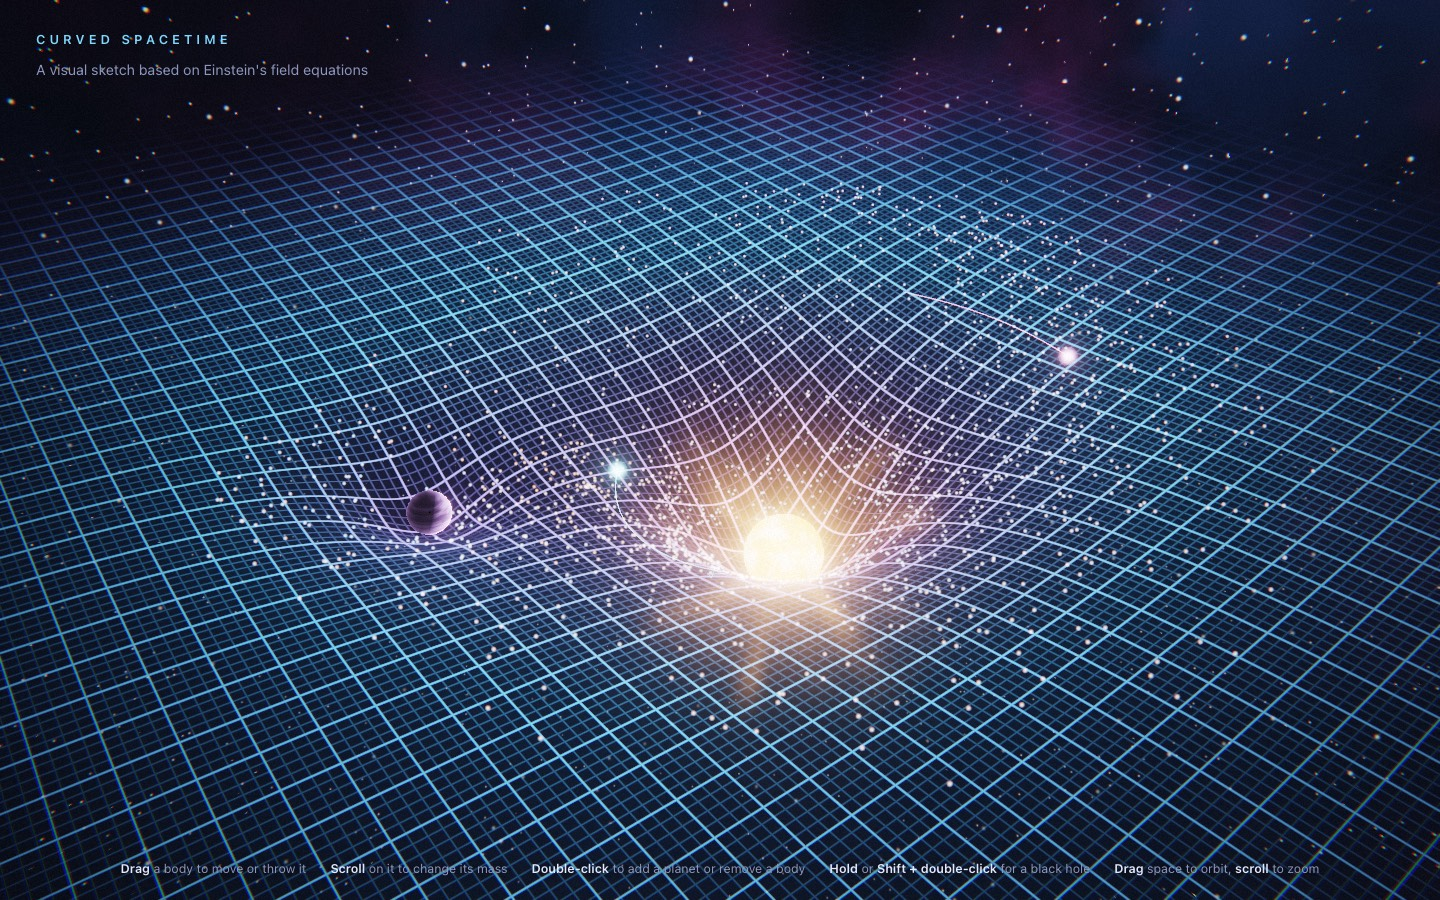
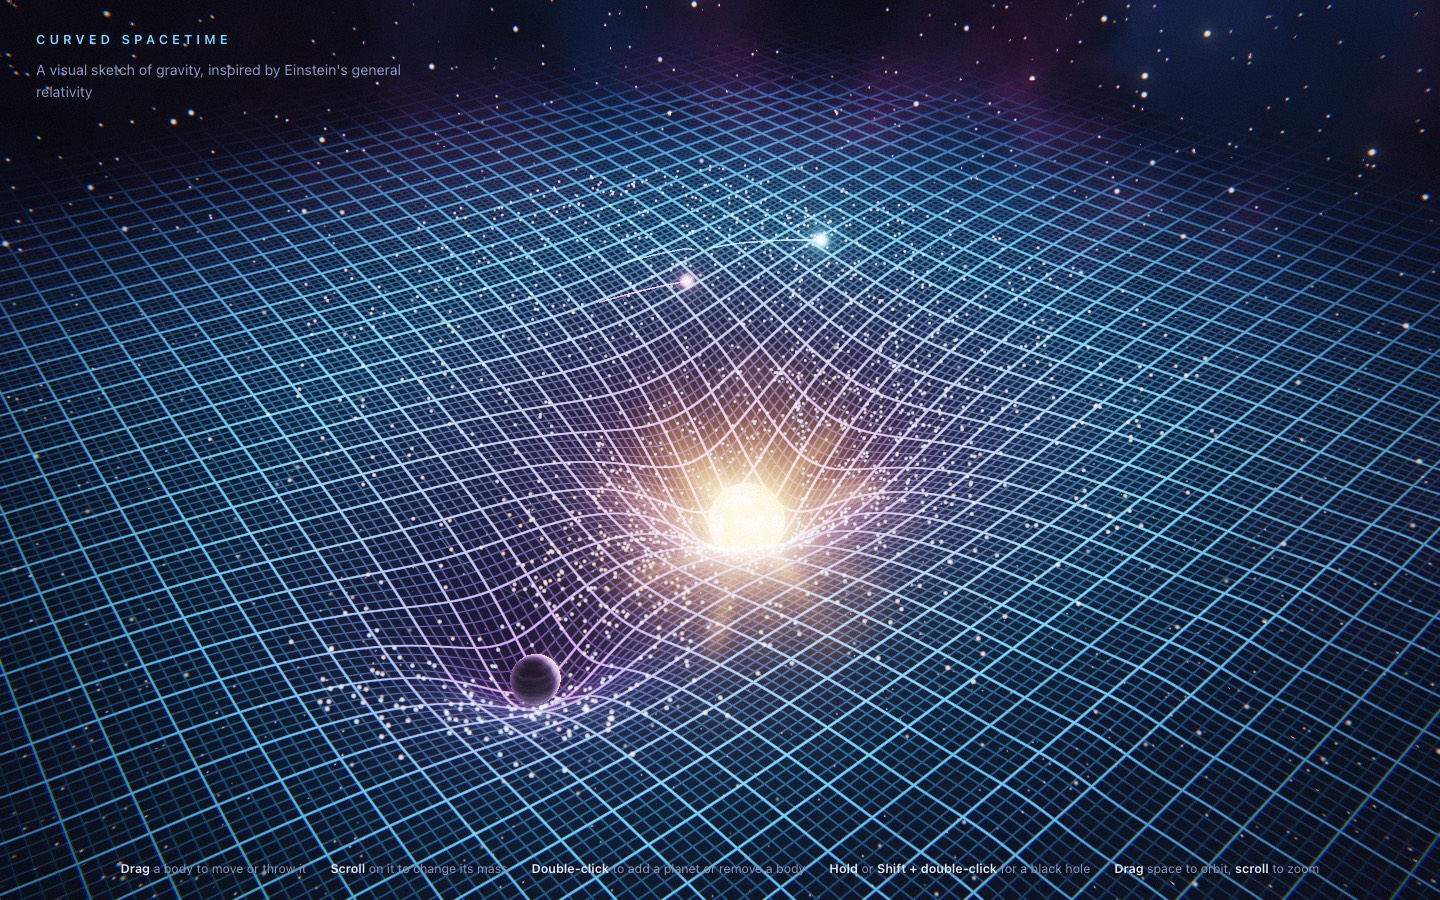
Curved Spacetime: black hole shadow, one well scale, ISCO disk, fixed-rate ripples, accuracy notes

diff --git a/einstein-field-equation/script.js b/einstein-field-equation/script.js
@@ -17,7 +17,13 @@ const SHEET_BAND = 8;
 const WAVE_N = 192;
 const WAVE_CELL = (2 * HALF) / WAVE_N;
 const WAVE_C2 = 0.22;
-const WAVE_DAMP = 0.986;
+// Steps per second. Ripples travel sqrt(WAVE_C2) cells per step, about 28 world units/s,
+// faster than stars and planets orbit. Anything orbiting close to a heavy black hole, and
+// thrown bodies, can still outrun them.
+const WAVE_RATE = 240;
+const WAVE_DAMP = 0.993;
+// Faster ripples spread over a wider ring, so disturbances push harder to stay as visible.
+const KICK_GAIN = 1.6;
 const SHADE_REF = DEPTH * 1.9;
 const DUST = 1800;
 const DUST_SPREAD = [2.2, 12];
@@ -35,14 +41,18 @@ const KINDS = {
 	hole: { soften: 1.25, maxMass: 10, radius: (m) => 0.3 + 0.22 * Math.sqrt(m) },
 };
 
-// The sheet is the softened Newtonian potential, so everything that orbits is
-// pulled by exactly the slope that is drawn.
+// The sheet is the softened Newtonian potential -G m / sqrt(r^2 + s^2) drawn at one scale for
+// every kind, so everything that orbits is pulled by exactly the slope that is drawn, and a
+// compact body (smaller s) digs a deeper well than a star of the same mass. A star's well is
+// DEPTH * mass deep.
+const WELL_SCALE = DEPTH * KINDS.star.soften;
+
 const wellHeight = (bodies, x, z) => {
 	let h = 0;
 	for (const b of bodies) {
 		const dx = x - b.x;
 		const dz = z - b.z;
-		h -= (DEPTH * b.mass) / Math.sqrt(1 + (dx * dx + dz * dz) / (b.soften * b.soften));
+		h -= (WELL_SCALE * b.mass) / Math.sqrt(dx * dx + dz * dz + b.soften * b.soften);
 	}
 	return h;
 };
@@ -117,15 +127,19 @@ const stepFade = (fade, leaving, dt) =>
 
 const clampMass = (kind, mass) => Math.min(KINDS[kind].maxMass, Math.max(MASS_MIN, mass));
 
+// Two black holes radiate about 5% of their mass away as gravitational waves when they merge.
+const HOLE_MERGER_LOSS = 0.05;
+
 const mergeBodies = (a, b) => {
-	const mass = a.mass + b.mass;
+	const sum = a.mass + b.mass;
+	const mass = a.kind === 'hole' && b.kind === 'hole' ? sum * (1 - HOLE_MERGER_LOSS) : sum;
 	const heavy = a.mass >= b.mass ? a : b;
 	const kind = a.kind === 'hole' || b.kind === 'hole' ? 'hole' : a.kind === 'star' || b.kind === 'star' ? 'star' : 'planet';
 	return {
-		x: (a.x * a.mass + b.x * b.mass) / mass,
-		z: (a.z * a.mass + b.z * b.mass) / mass,
-		vx: (a.vx * a.mass + b.vx * b.mass) / mass,
-		vz: (a.vz * a.mass + b.vz * b.mass) / mass,
+		x: (a.x * a.mass + b.x * b.mass) / sum,
+		z: (a.z * a.mass + b.z * b.mass) / sum,
+		vx: (a.vx * a.mass + b.vx * b.mass) / sum,
+		vz: (a.vz * a.mass + b.vz * b.mass) / sum,
 		mass,
 		kind,
 		hue: heavy.hue,
@@ -309,6 +323,7 @@ const GLSL_HEAD = `#version 300 es
 precision highp float;
 precision highp int;
 const float DEPTH = ${DEPTH.toFixed(4)};
+const float WELL_SCALE = ${WELL_SCALE.toFixed(4)};
 const float HALF = ${HALF.toFixed(4)};
 const float FADE_START = ${FADE_START.toFixed(4)};
 const float FADE_END = ${FADE_END.toFixed(4)};
@@ -424,7 +439,7 @@ float well(vec2 p) {
 		if (i >= uCount) break;
 		vec4 b = uBodies[i];
 		vec2 d = p - b.xy;
-		h -= DEPTH * b.z * inversesqrt(1.0 + dot(d, d) / (b.w * b.w));
+		h -= WELL_SCALE * b.z * inversesqrt(dot(d, d) + b.w * b.w);
 	}
 	return h;
 }
@@ -573,15 +588,21 @@ void main() {
 		float ring = exp(-pow((q - 1.45) * 5.0, 2.0));
 		col = (vec3(1.0, 0.72, 0.42) * ring * 3.5 + vec3(0.55, 0.3, 1.0) * exp(-max(q - 1.0, 0.0) * 1.2) * 0.25) * fadeOut;
 	} else {
-		float inner = 1.6;
-		if (q < inner * 0.85 || q > uRatio) discard;
+		// Radii are in units of the drawn horizon. The disk stops at the innermost stable
+		// circular orbit, 3 horizon radii. Brightness scales as g^3, where g is the Doppler and
+		// gravitational shift of a circular orbit: sqrt(1 - 1.5 / q) / (1 - beta cos), with orbital
+		// speed beta = sqrt(0.5 / (q - 1)). The approaching side shines, the receding side fades.
+		float inner = 3.0;
+		if (q < inner || q > uRatio) discard;
 		float ang = atan(vCorner.y, vCorner.x);
 		float spin = ang - uTime * 3.0 / pow(q, 1.5);
 		vec2 pr = vec2(cos(spin), sin(spin)) * q;
 		float n = fbm(vec3(pr * 1.4, q * 2.5));
-		float profile = smoothstep(inner * 0.85, inner * 1.25, q) * exp(-(q - inner) * 0.42) * fadeOut;
+		float profile = smoothstep(inner, inner * 1.12, q) * exp(-(q - inner) * 0.42) * fadeOut;
 		vec3 tangent = vec3(-sin(ang), 0.0, cos(ang));
-		float doppler = 1.0 + 0.75 * dot(tangent, normalize(uEye - vPos));
+		float beta = sqrt(0.5 / (q - 1.0));
+		float g = sqrt(max(1.0 - 1.5 / q, 0.0)) / (1.0 - beta * dot(tangent, normalize(uEye - vPos)));
+		float doppler = pow(g, 3.0) / pow(1.0 - 1.5 / inner, 1.5);
 		vec3 hot = mix(vec3(1.0, 0.45, 0.15), vec3(1.0, 0.92, 0.82), exp(-(q - inner) * 0.55));
 		col = hot * profile * (0.25 + 1.8 * n * n) * doppler * 1.4;
 	}
@@ -676,7 +697,9 @@ void main() {
 }`;
 
 // Black holes bend the finished frame: a pixel at distance r from the hole shows
-// what sits at r - E^2 / r, the point-lens equation, which draws the Einstein ring.
+// what sits at r - E^2 / r, the point-lens equation. Within the shadow radius, sqrt(27) / 2 = 2.6
+// horizon radii, the frame is black. The mask cannot tell what is in front of the hole, so it
+// hides that too.
 const COMPOSITE_FS = `${GLSL_HEAD}${GLSL_NOISE}
 in vec2 vUv;
 uniform sampler2D uScene;
@@ -694,17 +717,19 @@ vec3 aces(vec3 x) {
 
 void main() {
 	vec2 px = vUv * uRes;
+	float shadow = 1.0;
 	for (int i = 0; i < 4; i++) {
 		if (i >= uLensCount) break;
 		vec2 d = px - uLens[i].xy;
 		float r = max(length(d), 1e-3);
+		shadow *= smoothstep(uLens[i].w * 2.45, uLens[i].w * 2.6, r);
 		px = uLens[i].xy + d / r * (r - uLens[i].z / r);
 	}
 	vec2 uv = clamp(px / uRes, 0.0, 1.0);
 	vec2 cd = vUv - 0.5;
 	vec2 ca = cd * dot(cd, cd) * 0.006;
 	vec3 col = vec3(texture(uScene, uv + ca).r, texture(uScene, uv).g, texture(uScene, uv - ca).b);
-	col += texture(uBloom, uv).rgb * uBloomGain;
+	col = (col + texture(uBloom, uv).rgb * uBloomGain) * shadow;
 	col = aces(col * 1.05);
 	float vig = 1.0 - smoothstep(0.35, 1.15, length(cd * vec2(uRes.x / uRes.y, 1.0)) * 0.95);
 	col *= mix(0.5, 1.0, vig);
@@ -946,7 +971,7 @@ const boot = () => {
 				if (i < 1 || j < 1 || i >= WAVE_N - 1 || j >= WAVE_N - 1) continue;
 				const wx = -HALF + (i + 0.5) * WAVE_CELL - x;
 				const wz = -HALF + (j + 0.5) * WAVE_CELL - z;
-				waveV[j * WAVE_N + i] += amount * Math.exp(-(wx * wx + wz * wz) / 0.35);
+				waveV[j * WAVE_N + i] += amount * KICK_GAIN * Math.exp(-(wx * wx + wz * wz) / 0.35);
 			}
 		}
 	};
@@ -1007,6 +1032,7 @@ const boot = () => {
 	};
 
 	let drag = null;
+	let waveClock = 0;
 
 	const simulate = (dt) => {
 		for (const b of bodies) {
@@ -1039,7 +1065,7 @@ const boot = () => {
 			b.vx += (vx - b.vx) * 0.5;
 			b.vz += (vz - b.vz) * 0.5;
 			const speed = Math.hypot(vx, vz);
-			if (speed > 1) kick(b.x, b.z, -0.0035 * Math.min(speed, 40) * b.mass);
+			if (speed > 1) kick(b.x, b.z, -0.21 * dt * Math.min(speed, 40) * b.mass);
 		}
 
 		for (let i = 0; i < bodies.length; i++) {
@@ -1062,10 +1088,10 @@ const boot = () => {
 
 		for (const b of bodies) {
 			const a = Math.hypot(b.ax, b.az);
-			if (a > 0.5) kick(b.x, b.z, -0.00028 * b.mass * Math.min(a, 60));
+			if (a > 0.5) kick(b.x, b.z, -0.0168 * dt * b.mass * Math.min(a, 60));
 		}
-		stepWaves(waveH, waveV, WAVE_N);
-		stepWaves(waveH, waveV, WAVE_N);
+		waveClock += dt;
+		for (; waveClock >= 1 / WAVE_RATE; waveClock -= 1 / WAVE_RATE) stepWaves(waveH, waveV, WAVE_N);
 
 		const host = heaviest();
 		const lost = (x, z, leash) => swallowed(x, z) || (x - host.x) ** 2 + (z - host.z) ** 2 > leash * leash;
@@ -1185,7 +1211,7 @@ const boot = () => {
 			gl.uniform1f(progs.glow.u.uGain, gain);
 			gl.drawArrays(gl.TRIANGLE_STRIP, 0, 4);
 		};
-		for (const b of bodies) if (b.kind === 'hole') glow(b, 3, 7, true, 1);
+		for (const b of bodies) if (b.kind === 'hole') glow(b, 3, 10, true, 1);
 
 		// The sheet is translucent, so it must not hide its own far side: no depth writes,
 		// and bands are drawn far to near so nearer slopes blend over farther ones.
@@ -1312,7 +1338,9 @@ const boot = () => {
 			const sx = (c[0] / c[3] * 0.5 + 0.5) * w;
 			const sy = (c[1] / c[3] * 0.5 + 0.5) * h;
 			const rPx = (R * view.pixels) / c[3];
-			const einstein = rPx * 2.4;
+			// With E = 2.04 R the lensed image of the black sphere ends at 2.6 R, the shadow edge,
+			// and the photon ring glow lands just outside it, at 2.89 R.
+			const einstein = rPx * 2.04;
 			lens.set([sx, sy, einstein * einstein, rPx], lensCount++ * 4);
 		}
 

diff --git a/einstein-field-equation/index.html b/einstein-field-equation/index.html
@@ -14,7 +14,7 @@
 
 		<header class="caption">
 			<h1>Curved spacetime</h1>
-			<p class="lede">A visual sketch based on Einstein's field equations</p>
+			<p class="lede">A visual sketch of gravity, inspired by Einstein's general relativity</p>
 			<p id="fallback" class="fallback" hidden>This needs a browser with WebGL 2.</p>
 		</header>
 

diff --git a/einstein-field-equation/README.md b/einstein-field-equation/README.md
@@ -1,6 +1,6 @@
 # Curved Spacetime (WebGL)
 
-An embedding diagram of curved spacetime in raw WebGL 2: no libraries, no build step, no server.
+A rubber-sheet picture of gravity in raw WebGL 2: no libraries, no build step, no server.
 
 Open `index.html` in a browser that supports WebGL 2.
 
@@ -17,28 +17,58 @@ Open `index.html` in a browser that supports WebGL 2.
 - **The sheet**: a square 400 × 400 mesh that fades out toward its edges so it reads as endless.
   The fade is tuned to be nearly gone where the play area ends, so anywhere the grid shows, you
   can add or move a body. Its height, computed in the vertex shader, is the softened Newtonian
-  potential of every body, lifted by however far the edge of the play area has sunk, so flat
+  potential of every body, drawn at one scale for every kind (so a black hole digs a deeper well
+  than a star of the same mass), lifted by however far the edge of the play area has sunk, so flat
   space stays level however heavy the bodies get. Grid lines are drawn in the fragment shader with
   screen-space anti-aliasing and colored by depth, and stars light the grid around them. Being
   translucent, the sheet is drawn far to near in bands without writing depth, so its far side and
   the wells behind a slope stay visible from any angle. A depth-only pass follows, so dust, moons
   and trails behind a slope are still hidden.
-- **Ripples**: a damped wave equation runs on a 192 × 192 grid on the CPU and is uploaded each frame
-  as a half-float texture. Accelerating, thrown, merging or newly added bodies disturb it.
+- **Ripples**: a damped wave equation runs on a 192 × 192 grid on the CPU at a fixed 240 steps per
+  second, so ripples move at about 28 units per second on any display, faster than stars and planets
+  orbit. Anything orbiting close to a heavy black hole, and thrown bodies, can still outrun them. It is uploaded each frame as a half-float texture. Accelerating, thrown, merging or newly
+  added bodies disturb it.
 - **Bodies**: ray-traced spheres on camera-facing quads that write their own depth, so they cut
   cleanly into the sheet. Stars have animated plasma and a corona, planets are lit by the nearest
-  star, black holes are black with a photon ring and an accretion disk with Doppler brightening.
+  star, black holes are black with a photon ring and an accretion disk. The disk starts at the innermost
+  stable circular orbit, 3 horizon radii, and its brightness follows the Doppler and gravitational
+  shift of each orbit, so the side coming toward the camera is much brighter.
 - **Orbits**: the bodies pull on each other (N-body), and 1,800 dust grains and two moons with trails
   orbit in the same potential that shapes the sheet. Anything that falls into a body, or is flung
   too far from the heaviest one, comes back in a fresh orbit around it, so the disk never drains. A moon that hits a body falls in
   with a ripple, and its replacement fades in instead of popping up. Bodies that touch merge, conserving momentum and mass (up to the merged kind's cap);
-  a black hole always wins.
-- **Lensing**: each black hole bends the finished frame with the point-lens equation, which draws an
-  Einstein ring and warps the grid and stars behind it.
+  a black hole always wins. Two black holes radiate 5% of their mass as they merge, and that
+  energy carries away its share of the momentum.
+- **Lensing**: each black hole bends the finished frame with the point-lens equation, which warps the grid
+  and stars behind it. Within the shadow radius, 2.6 horizon radii, the frame is black, and the
+  photon ring glows just outside it. The mask also hides whatever passes in front of the hole,
+  such as the near side of its disk.
 - **Post-processing**: HDR render target with 4× MSAA, dual-filter bloom, ACES tone mapping,
   slight chromatic aberration, vignette and film grain. Falls back to 8-bit targets when the GPU
   cannot render to float textures.
 - **Sky**: procedural stars and a nebula band, fixed in the world so they turn with the camera.
+
+## How accurate is it
+
+It is a picture of gravity, not a solution of Einstein's field equations. The motion is Newtonian
+and the sheet is a teaching analogy. What holds and what does not:
+
+| Element | Status |
+|---|---|
+| Orbits | Newtonian N-body with a softened potential. No relativistic precession, no innermost stable orbit for dust and moons, and gravity acts instantly. The softening makes eccentric orbits precess backward, where general relativity advances them. |
+| The sheet | The rubber-sheet analogy. Height is the Newtonian potential, which matches the pull exactly, but in general relativity most of everyday gravity comes from time running slower near a mass, which a height field cannot show. It is not Flamm's paraboloid, the true embedding of space around a black hole. |
+| Ripples | A scalar wave, set off by any jolt, at about 28 units per second, which the fastest bodies can outrun. Real gravitational waves are transverse, have two polarizations, start at the quadrupole order (orbiting pairs, mergers) and travel at the speed of light. |
+| Black hole lensing | The weak-field point-lens equation, β = θ − θ_E²/θ, with a fixed Einstein radius of 2.04 horizon radii, chosen so the lensed horizon ends at the shadow edge. Foreground objects are lensed too. |
+| Black hole shadow | Radius 2.6 horizon radii (√27 / 2), the Schwarzschild value. It is a screen mask, so it also hides whatever is in front of the hole. |
+| Accretion disk | Inner edge at the innermost stable circular orbit (3 horizon radii), Keplerian spin, brightness scaled by g³ for the Doppler and gravitational shift of a circular orbit. |
+| Mergers | The remnant moves with the center of mass. Black hole pairs lose 5% of their mass, and that energy carries off its share of the momentum. 5% fits near-equal pairs, such as the first detected merger, [GW150914](https://arxiv.org/abs/1602.03837), which radiated 3 of 65 solar masses; unequal pairs radiate less. |
+
+Sources: Pössel, [Relatively complicated? Using models to teach general relativity at different
+levels](https://arxiv.org/abs/1812.11589), sec. 4.2, on the rubber-sheet analogy; Carroll,
+[Lecture Notes on General Relativity](https://arxiv.org/abs/gr-qc/9712019), eqs. 7.51 to 7.55 for
+the photon sphere and innermost stable orbit and sec. 6 for gravitational waves; Perlick and
+Tsupko, [Calculating black hole shadows: Review of analytical studies](https://arxiv.org/abs/2105.07101), eq. 8; Mao,
+[Introduction to Gravitational Microlensing](https://arxiv.org/abs/0811.0441), sec. 3.
 
 ## Controls
 
@@ -60,7 +90,7 @@ motion.
 
 ## Tests
 
-The CPU math (potential, gravity, circular orbits, merging, waves, matrices, ray picking on the
+The CPU math (potential and its match to gravity, circular orbits, merging, waves, matrices, ray picking on the
 curved sheet, tap and double-tap detection) is tested with Node's built-in runner, no install needed:
 
 ```sh
@@ -68,8 +98,3 @@ node --test tests/math.test.mjs
 ```
 
 Shaders and rendering are checked by eye; there is no automated visual test.
-
-## CodePen
-
-Paste the contents of `<body>` into the HTML panel, `styles.css` into CSS and `script.js` into JS.
-The `<meta>` Content Security Policy in `index.html` is for local use only and is not needed there.

diff --git a/README.md b/README.md
@@ -13,7 +13,7 @@ No frameworks. No build tools. No dependencies.
 ## Experiments
 
 - **Curved Spacetime**  
-  An interactive embedding diagram of gravity in raw WebGL 2, where stars, planets and black holes bend a glowing grid, and dust and moons orbit along the curvature.  
+  An interactive rubber-sheet picture of gravity in raw WebGL 2, where stars, planets and black holes bend a glowing grid, and dust and moons orbit along the curvature.  
   **Path:** `einstein-field-equation/`
 
 ## Notes
